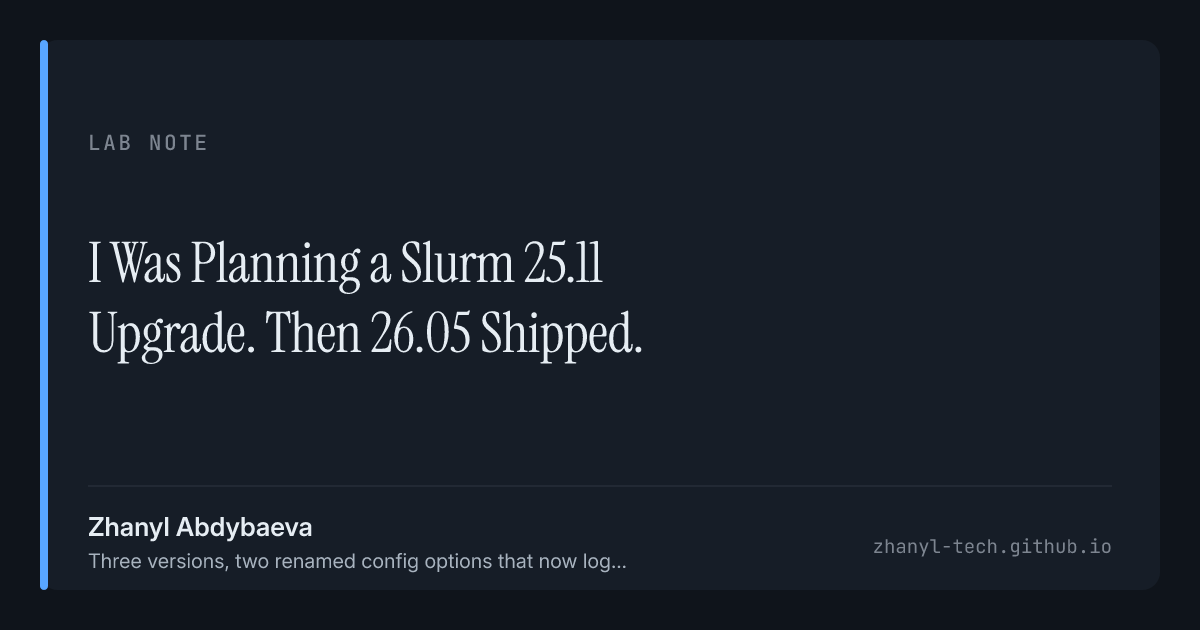
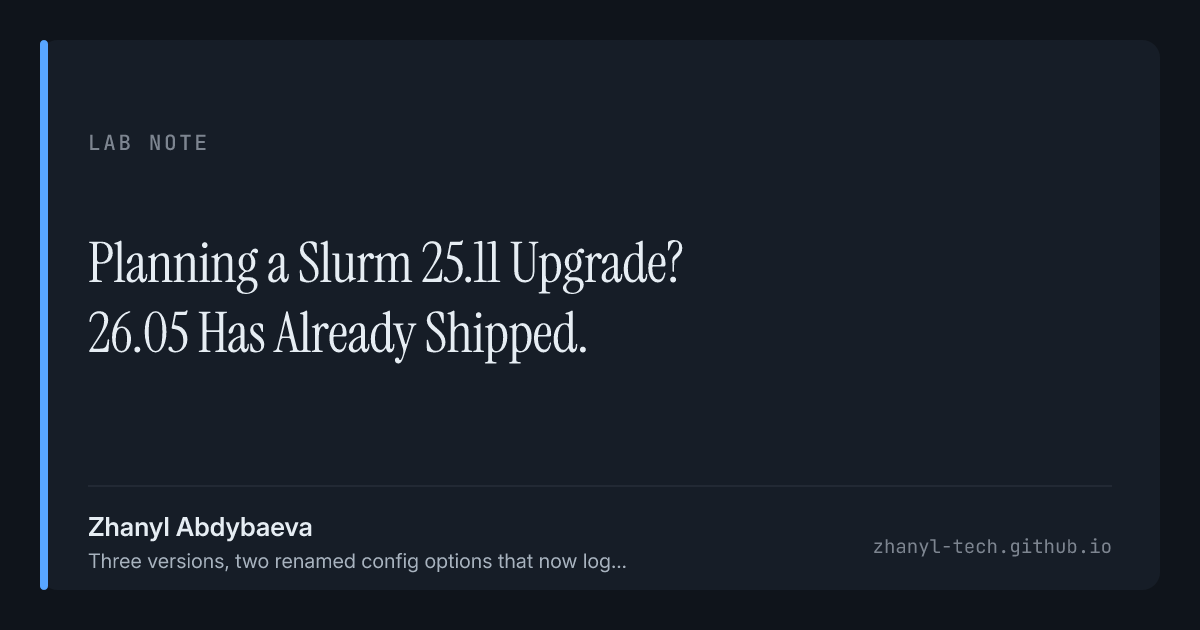
Use neutral example data and wording throughout
Example accounts, users, hosts and figures are now generic placeholders, and a
cluster-size example, where one is needed, uses 1000 nodes.

Changed region(s): [[0.0617, 0.3619, 0.5858, 0.4825], [0.0617, 0.4825, 0.5242, 0.573]]

diff --git a/scripts/check_content.py b/scripts/check_content.py
@@ -17,7 +17,7 @@ Four rules, all about not publishing something by accident:
 3. A published page does not name a working branch (`improve/…`,
    `publish/…`) outside an HTML comment. Branches are deleted after they
    merge, so a result pinned to one cannot be reproduced for long; name a
-   commit or a tag, as the backfill write-up does with `c02b52f`.
+   commit or a tag, as the backfill write-up does with `8c83324`.
 4. Wording this site withdrew stays withdrawn (WITHDRAWN below). Each entry
    was published, or about to be, and then corrected because the source or
    the repository said otherwise. The rule stops it coming back through a

diff --git a/scripts/tests/test_scripts.py b/scripts/tests/test_scripts.py
@@ -174,7 +174,7 @@ class CheckContentBranchesAndWithdrawn(unittest.TestCase):
             write(content / "experiments" / "a.md",
                   "---\ntitle: a\n---\nThe rows ran on the `improve/2026-09` branch.\n")
             write(content / "experiments" / "b.md",
-                  "---\ntitle: b\n---\nPinned to `c02b52f`.\n<!-- OWNER: merge improve/2026-09\nfirst. -->\n")
+                  "---\ntitle: b\n---\nPinned to `8c83324`.\n<!-- OWNER: merge improve/2026-09\nfirst. -->\n")
             problems = check_content.check(content)
             self.assertEqual(len(problems), 1)
             self.assertIn("a.md", problems[0])

diff --git a/content/experiments/2026-07-26-slurm-backfill-time-limits.md b/content/experiments/2026-07-26-slurm-backfill-time-limits.md
@@ -16,7 +16,7 @@ draft: false
 >
 > 1. **It was one synthetic seed, not a trace.** Every number came from the
 >    simulator's synthetic generator: 300 jobs on 16 nodes, **seed 5**, with
->    simulator version 0.1 (commit `c02b52f`). The post never said which seed,
+>    simulator version 0.1 (commit `8c83324`). The post never said which seed,
 >    and other pages called the result "measured" on "real job traces".
 > 2. **"The weights barely matter" does not survive other seeds.** Over seeds
 >    0–19 of the same code, sweeping `PriorityWeightJobsize` moved mean wait
@@ -45,13 +45,13 @@ divided by the smallest.
 
 | simulator | backfill: mean-wait ratio | backfill: CPU-utilisation gain | jobsize sweep: mean-wait ratio | sweep > backfill |
 | --- | --- | --- | --- | --- |
-| v0.1 (`c02b52f`, EASY, classic fairshare) | median 4.65×, range 2.27–6.92× | median +16.1 pts, range 7.6–32.5 | median 3.06×, range 1.43–4.27× | 3 of 20 seeds |
+| v0.1 (`8c83324`, EASY, classic fairshare) | median 4.65×, range 2.27–6.92× | median +16.1 pts, range 7.6–32.5 | median 3.06×, range 1.43–4.27× | 3 of 20 seeds |
 | current (unreleased, conservative backfill, Fair Tree) | median 3.84×, range 2.17–5.71× | median +16.4 pts, range 5.1–28.8 | median 3.18×, range 2.15–3.87× | 6 of 20 seeds |
 
 Per seed *s* in 0–19: `schedlab --compare-backfill --jobs 300 --seed s` and
 `schedlab --sweep jobsize --jobs 300 --seed s`, with the mean-wait lines read
 from the CLI's text report. The v0.1 rows ran on a `git archive` of commit
-`c02b52f`. The current rows ran on the simulator's next version as it stood on
+`8c83324`. The current rows ran on the simulator's next version as it stood on
 2026-09-27, before it was committed or released. They will be re-run and pinned
 to a commit when it is released; until then they cannot be reproduced exactly.
 (An earlier state of that unreleased code, before it rounded invented time
@@ -59,7 +59,7 @@ limits up to whole minutes as Slurm does, gave median 3.89×, +16.0 points and
 3.12× here, and 442.5 minutes for seed 5 with backfill on.)
 <!-- OWNER: pin the "current" rows before this correction goes live. They
 were re-run on 2026-09-27 against slurm-scheduler-lab's working tree: HEAD
-c02b52f (the v0.1 commit) plus uncommitted changes on its improve/2026-09
+8c83324 (the v0.1 commit) plus uncommitted changes on its improve/2026-09
 branch, working-tree fingerprint 0c64a952cad1 (SHA-256 of `git diff HEAD
 --binary` followed by the sha256 lines of each untracked file in sorted order,
 first 12 hex digits: the recipe in that repository's README, "Running S0").
@@ -70,7 +70,7 @@ comparison at that commit, update every table in this post, the medians here,
 on about.md ("a median 3.8x across 20 seeds"), projects/_index.md and
 slurm-scheduler-lab.md, then replace "unreleased" in the summary table and the
 sentence above with the commit hash or release tag, as the v0.1 rows do with
-c02b52f. Point the README link under "Slurm is not EASY" at that tag.
+8c83324. Point the README link under "Slurm is not EASY" at that tag.
 scripts/check_content.py refuses a published page that names a working branch
 outside a comment. -->
 
@@ -142,7 +142,8 @@ The project page is [slurm-scheduler-lab](/projects/slurm-scheduler-lab/).
 
 ## The original post (26 July 2026), with corrections marked
 
-*Text is unchanged except where a correction is marked in brackets.*
+*Text is unchanged except for corrections marked in brackets and a few later
+wording edits that change no number or result.*
 
 Changing `PriorityWeightFairshare` on a live cluster is a hard experiment to
 justify. The feedback loop is days long, the blast radius is everyone's queue,
@@ -161,7 +162,7 @@ seed. See above.]*
 
 Baseline, 300 jobs on 16 nodes *[synthetic generator, seed 5, simulator v0.1;
 reproduce with `schedlab --compare-backfill --jobs 300 --seed 5` on commit
-`c02b52f`]*:
+`8c83324`]*:
 
 ```
 backfill OFF                          backfill ON

diff --git a/content/about.md b/content/about.md
@@ -15,12 +15,8 @@ on Kubernetes, rack-scale disaggregated hardware. The problem doesn't. Somebody
 has to decide which job gets which accelerator, show the decision was right, and
 diagnose it when the answer stops being obvious.
 
-<!-- OWNER: the homepage used to say "a company" and this page
-"a company". This page's wording is kept and the homepage no
-longer names the employer; confirm this is the description you want public. -->
-I'm a infrastructure engineer, working on the GPU compute platform behind machine-learning research.
-Scheduling and fairshare policy, GPU lifecycle, distributed storage, and the
-telemetry that turns "the cluster feels slow" into a number.
+The problems I keep coming back to are scheduling and fairshare policy, GPU
+lifecycle, and the telemetry that turns "the cluster feels slow" into a number.
 
 ## What the public work covers
 
@@ -78,9 +74,9 @@ yet.
 
 ## Background
 
-Ten years of production infrastructure: Linux systems at fleet
-scale. MS in Computer Science (machine learning) at Georgia Tech, the
-Certificate in Quantitative Finance, and NVIDIA's NCP-AIO.
+Ten years of production infrastructure and Linux systems at fleet scale. MS in
+Computer Science (machine learning) at Georgia Tech, the Certificate in Quantitative Finance, and
+NVIDIA's NCP-AIO.
 
 The combination is intentional. I want to build ML platforms for people doing
 quantitative research, which means understanding the systems, the agents that

diff --git a/content/projects/slurm-scheduler-lab.md b/content/projects/slurm-scheduler-lab.md
@@ -113,7 +113,7 @@ requests bought some throughput and cost waiting on this workload.
 claim it makes through it.
 
 <!-- OWNER: these figures were produced on 2026-09-27 from slurm-scheduler-lab's
-working tree: commit c02b52f plus uncommitted changes, working-tree fingerprint
+working tree: commit 8c83324 plus uncommitted changes, working-tree fingerprint
 0c64a952cad1 (the recipe in that README's "Running S0" section, applied to this
 repository). Before this change they read 89.9% / 442.5 min, 3.89x, +16.0 and
 3.12x, from an earlier state of the same uncommitted tree, before time limits

diff --git a/content/experiments/2026-07-26-slurm-25-11-upgrade-notes.md b/content/experiments/2026-07-26-slurm-25-11-upgrade-notes.md
@@ -38,9 +38,8 @@ said 26.05 had shipped on 14 July.]* And 26.05 upgrades **directly** from
 25.05 — which means 25.11 is not the only target for a cluster on 25.05, and
 possibly not the right one.
 
-So this is the comparison I actually needed: three versions, what breaks between
-them, and which one a cluster with one head node and 250 compute nodes should
-be aiming at.
+So this is the comparison worth making: three versions, what breaks between
+them, and which one a cluster still on 25.05 should be aiming at.
 
 ## The short version
 

diff --git a/content/experiments/2026-01-20-vllm-vs-tensorrt-llm-first-look.md b/content/experiments/2026-01-20-vllm-vs-tensorrt-llm-first-look.md
@@ -24,7 +24,7 @@ Why (checked on 2026-09-26):
   version named: the TensorRT-LLM v0.9.0 README lists "Paged KV Cache for the
   Attention" and "In-flight Batching".
 - No scripts, logs or hardware inventory exist. The note is dated 2026-01-20
-  and was first committed on 2026-03-28 (ac8c811).
+  and was first committed on 2026-03-28 (192eb3a).
 - It promised "the continuous batching test next week"; that test was never
   run.
 

diff --git a/content/projects/slinky-gitops.md b/content/projects/slinky-gitops.md
@@ -45,8 +45,7 @@ NodeName=slinky-0 Arch=aarch64 State=IDLE+DYNAMIC_NORM
 
 Versions are pinned in the Makefile: Slinky operator and charts 1.2.0, the
 `kindest/node:v1.32.2` image by digest, cert-manager 1.20.4. **Slinky v1.2
-ships Slurm 26.05**, a release ahead of 25.11
-planning for.
+ships Slurm 26.05**, a release ahead of 25.11, the previous stable series.
 
 ## On Slinky the shared secret is auth/slurm, not MUNGE
 

diff --git a/content/projects/inference-throughput-benchmark.md b/content/projects/inference-throughput-benchmark.md
@@ -34,7 +34,7 @@ Why it was withdrawn (every figure below was checked on 2026-09-26):
    measured.
 4. There is no artefact: no repository, scripts, logs, or hardware inventory.
    The page is dated 2026-01-20; git first records its content on 2026-03-28
-   (commit ac8c811, "seed content").
+   (commit 192eb3a, "seed content").
 
 What evidence would be needed to republish anything under this title:
 
